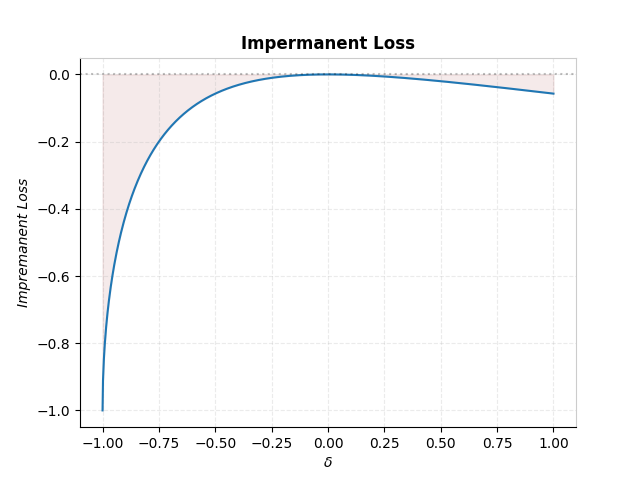
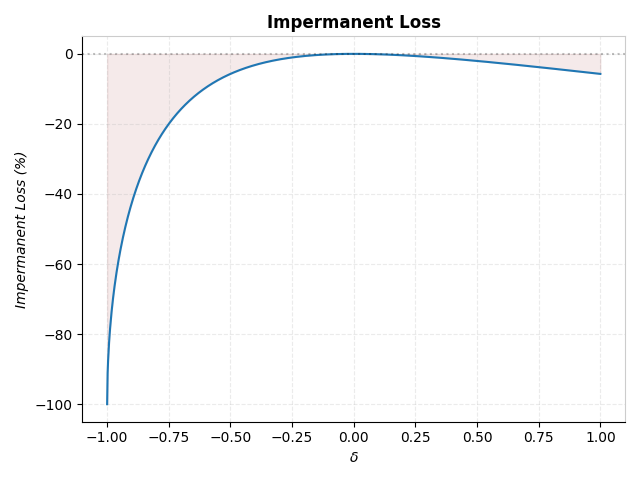
updates

diff --git a/src/delta_hedge/OptimizationRunner.py b/src/delta_hedge/OptimizationRunner.py
@@ -8,7 +8,7 @@ from delta_hedge.OptionsOptimizer import OptionsOptimizer as OptionsOptimizer
 from delta_hedge.Train import Train as Train
 from delta_hedge.Derivative import Derivative as Derivative
 from delta_hedge.AlgorithmicDataSet import AlgorithmicDataSet as AlgorithmicDataSet
-import deribit.retrieve_instruments as retrieve_and_create_derivatives
+from deribit.retrieve_instruments import retrieve_and_create_derivatives
 
 ROOT_DIR = os.path.dirname(BASE_DIR)
 sys.path.append(ROOT_DIR)
@@ -30,7 +30,7 @@ class OptimizationRunner:
         keys_in_train_params = [
             "learning_rate",
             "num_samples",
-            "batch_sze",
+            "batch_size",
             "test_batch_size",
             "log_every",
         ]
@@ -39,7 +39,7 @@ class OptimizationRunner:
 
         self.name = name
         self.derivs = retrieve_and_create_derivatives(
-            deriv_params["currency"], expired=deriv_params["expired"]
+            deriv_params["asset"], expired=deriv_params["expired"]
         )
         self.model = OptionsOptimizer(self.derivs)
         self.train_loader = torch.utils.data.DataLoader(
@@ -82,12 +82,7 @@ class OptimizationRunner:
     def present_pnl(self, title):
         # display options portfolio PNL as a function of price
         create_plot_from_fn(
-            lambda x: sum(
-                [
-                    self.learned_theta[i] * (self.derivs[i].payoff_fun(x))
-                    for i in range(len(self.derivs))
-                ]
-            ),
+            self.get_pnl_fun(),
             self.data_params["final_price_lower_bound"],
             self.data_params["final_price_upper_bound"],
             y_min=None,
@@ -99,4 +94,12 @@ class OptimizationRunner:
             x_axis_line=True,
             shade_pnl=True,
             num=1_000,
+        )
+
+    def get_pnl_fun(self):
+        return lambda x: sum(
+            [
+                self.learned_theta[i] * (self.derivs[i].payoff_fun(x))
+                for i in range(len(self.derivs))
+            ]
         )

diff --git a/src/image_creation/plot_runner.py b/src/image_creation/plot_runner.py
@@ -7,25 +7,25 @@ sys.path.append(
 import image_creation
 
 
-IL = lambda x: 2 * (x + 1) ** 0.5 / (x + 2) - 1
+IL = lambda x: (2*((x  +1)**.5) / (x + 2) - 1) * 100
 image_creation.create_plot_from_fn(
     IL,
     -1,
     1,
     save_title="IL",
     xlabel=r"$\delta$",
-    ylabel="Impremanent Loss",
+    ylabel="Impermanent Loss (%)",
     title="Impermanent Loss",
 )
 
-LPPNL = lambda x: (x + 1) ** 0.5 - 1
+LPPNL = lambda x: ((x + 1) ** 0.5 - 1) * 100
 image_creation.create_plot_from_fn(
     LPPNL,
     -1,
     1,
     save_title="LPPNL",
     xlabel=r"$\delta$",
-    ylabel="Liquidity Position PNL",
+    ylabel="PNL (%)",
     title="Liquidity Position PNL",
 )
 
@@ -33,3 +33,25 @@ image_creation.create_liquidity_plot(2)
 image_creation.create_liquidity_plot(3)
 
 image_creation.create_position_value_plot()
+
+
+LPPNL_Uniswap_v2 = lambda x: 463.647 * (((x/1613.68)**.5)-1)
+image_creation.create_plot_from_fn(
+    LPPNL_Uniswap_v2,
+    0,
+    5_000,
+    save_title="experiment_v2_lppnl",
+    xlabel=r"$p_{Ethereum;USDT}^f$",
+    ylabel="PNL ($ Thousands)",
+    title="ETH-USDT Liquidity Position PNL Uniswap v2",
+)
+Options_Portfolio_Target_PNL = lambda x: -463.647 * (((x/1613.68)**.5)-1)
+image_creation.create_plot_from_fn(
+    Options_Portfolio_Target_PNL,
+    0,
+    5_000,
+    save_title="experiment_v2_options_target_pnl",
+    xlabel=r"$p_{Ethereum;USDT}^f$",
+    ylabel="PNL ($ Thousands)",
+    title="Target Options Portfolio PNL Uniswap v2",
+)

diff --git a/src/v2_experiment_runner.py b/src/v2_experiment_runner.py
@@ -8,10 +8,15 @@ sys.path.append(BASE_DIR)
 from delta_hedge.OptimizationRunner import OptimizationRunner as OptimizationRunner
 
 ROOT_DIR = os.path.dirname(BASE_DIR)
+sys.path.append(ROOT_DIR + "/utils")
+from image_creation import create_plot_from_fn
+
+ROOT_DIR = os.path.dirname(BASE_DIR)
 
 if __name__ == "__main__":
-    TARGET_FUN = lambda x: x
-    with open(ROOT_DIR + "/configs/config.json") as f:
+    path_to_config = ROOT_DIR + "/configs/uniform_liquidity_config.json"
+    TARGET_FUN = lambda x: -463_647 * (((x / 1613.68) ** 0.5) - 1)
+    with open(path_to_config) as f:
         config = json.load(f)
 
     data_params = {
@@ -31,3 +36,19 @@ if __name__ == "__main__":
     runner.train()
     runner.pretty_print_results()
     runner.present_pnl("Options Portfolio Payoff - ETH USD - Uniform Liquidity")
+    options_portfolio_pnl_fun = runner.get_pnl_fun()
+    combined_pnl = lambda x: (TARGET_FUN(x) + options_portfolio_pnl_fun(x)) / 1000
+    create_plot_from_fn(
+        combined_pnl,
+        config["final_price_lower_bound"],
+        config["final_price_upper_bound"],
+        y_min=None,
+        y_max=None,
+        save_title="experiment_v2_combined_lppnl_options",
+        xlabel=r"p_{a;b}^f",
+        ylabel="PNL ($ Thousands)",
+        title="ETH-USDT Delta-Hedged Liquidity Position PNL - Uniswap v2",
+        x_axis_line=True,
+        shade_pnl=True,
+        num=1_000,
+    )

diff --git a/utils/image_creation.py b/utils/image_creation.py
@@ -49,6 +49,7 @@ def create_plot_from_fn(
     ttl = ax.title
     ttl.set_weight("bold")
 
+    plt.tight_layout()
     plt.grid(linestyle="--", alpha=0.25)
     plt.savefig(f"{save_path}/{save_title}")
 
